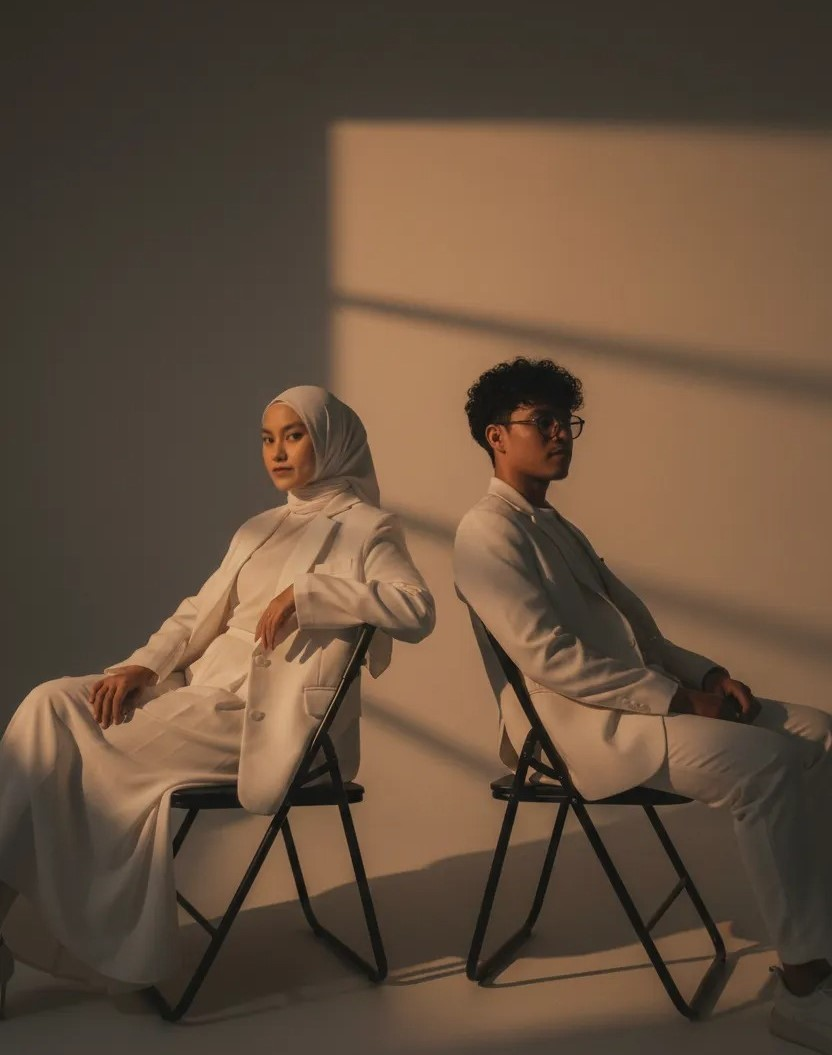
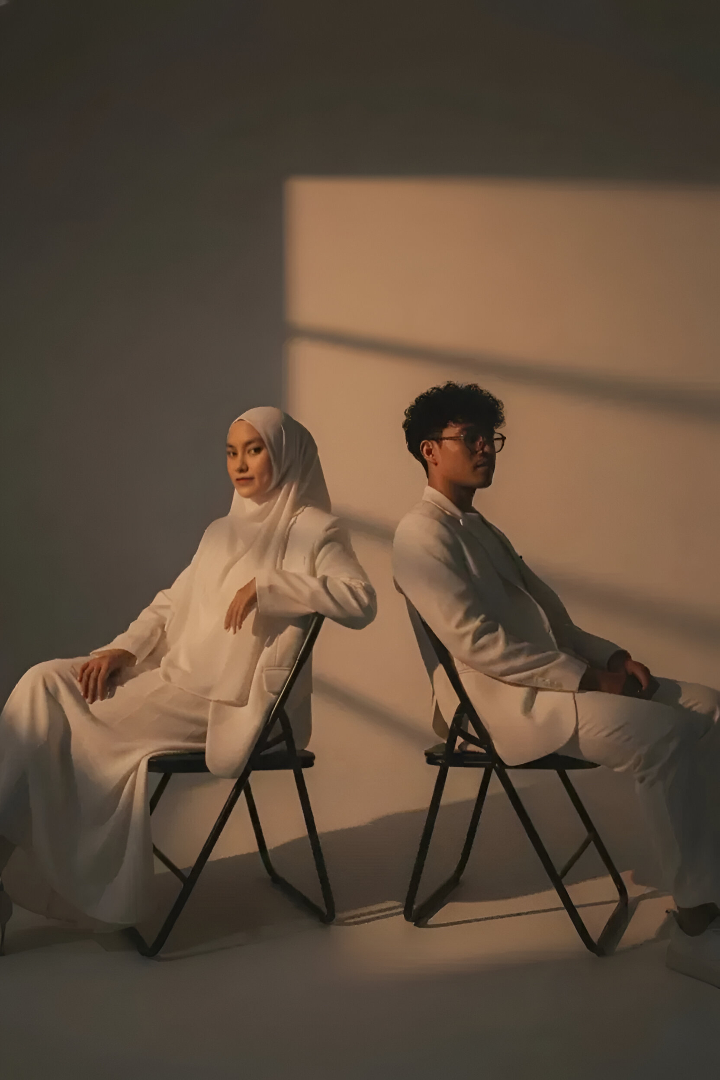
feat: update gallery image references to JPG and add new gallery images

diff --git a/src/data/weddingData.ts b/src/data/weddingData.ts
@@ -44,7 +44,7 @@ export const weddingData = {
     },
     {
       id: 2,
-      url: "gallery/gallery2.png",
+      url: "gallery/gallery2.jpg",
       alt: "Gallery 2"
     },
     {
@@ -59,7 +59,7 @@ export const weddingData = {
     },
     {
       id: 4,
-      url: "gallery/gallery4.png",
+      url: "gallery/gallery4.jpg",
       alt: "Gallery 4"
     },
     {
